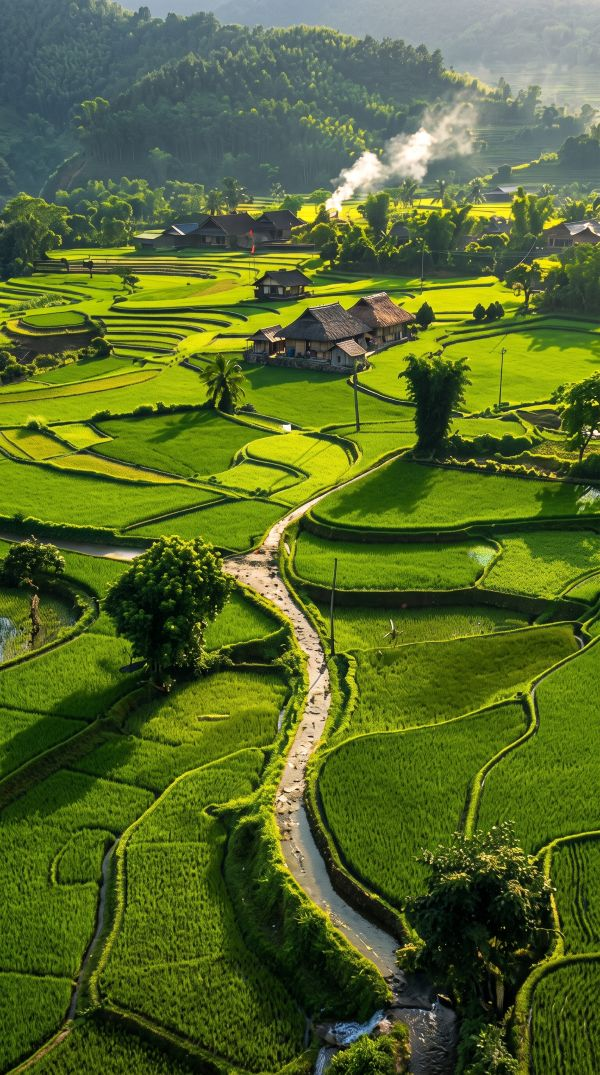
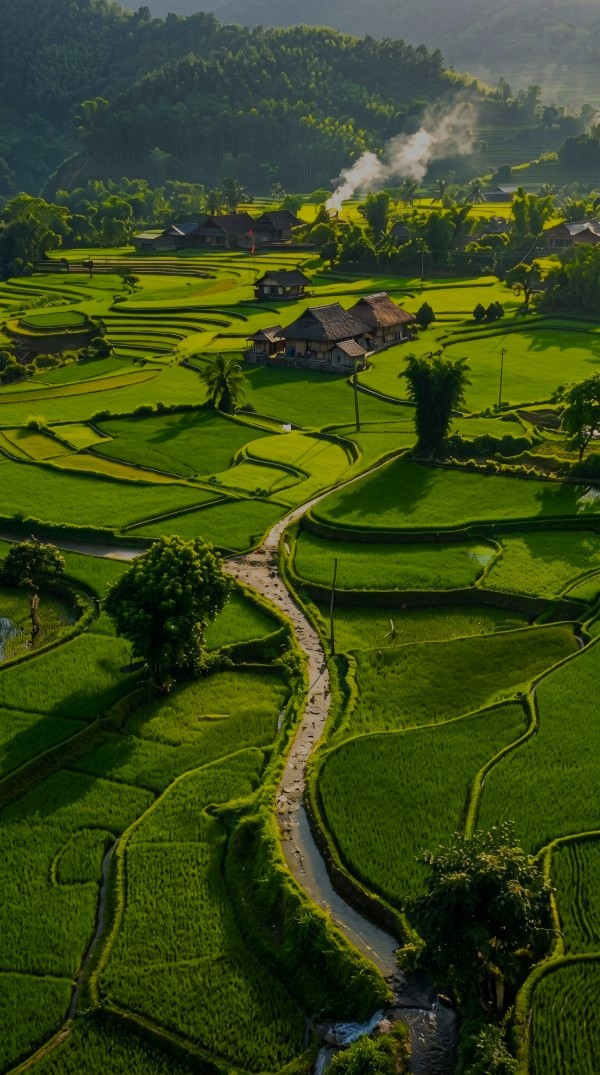
update website

diff --git a/src/components/auth/Auth.css b/src/components/auth/Auth.css
@@ -64,11 +64,13 @@
    (panel z-index 1). One flat color top-to-bottom: no gradient,
    no vignette, no bottom fade — the rice-field photo keeps the
    same brightness across the entire viewport. Static — never
-   animated. */
+   animated. Slightly deeper tint than before so text inside the
+   transparent glass card keeps readable contrast over the bright
+   field photos (the photo itself stays clearly visible). */
 .auth-bg {
     position: absolute;
     inset: 0;
-    background-color: rgba(6, 9, 16, 0.15);
+    background-color: rgba(6, 9, 16, 0.35);
     pointer-events: none;
     z-index: 0;
 }
